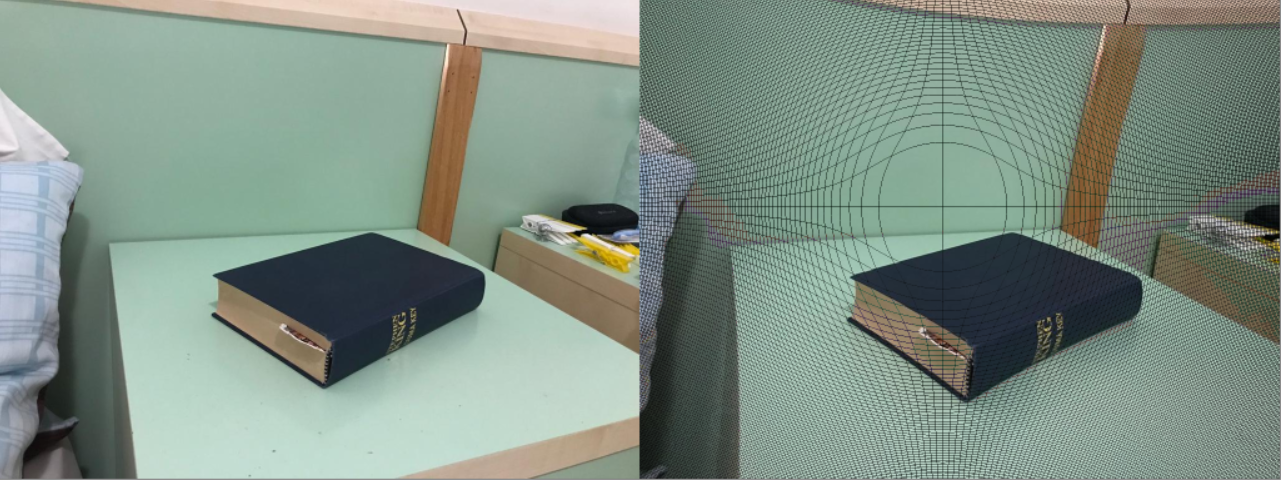
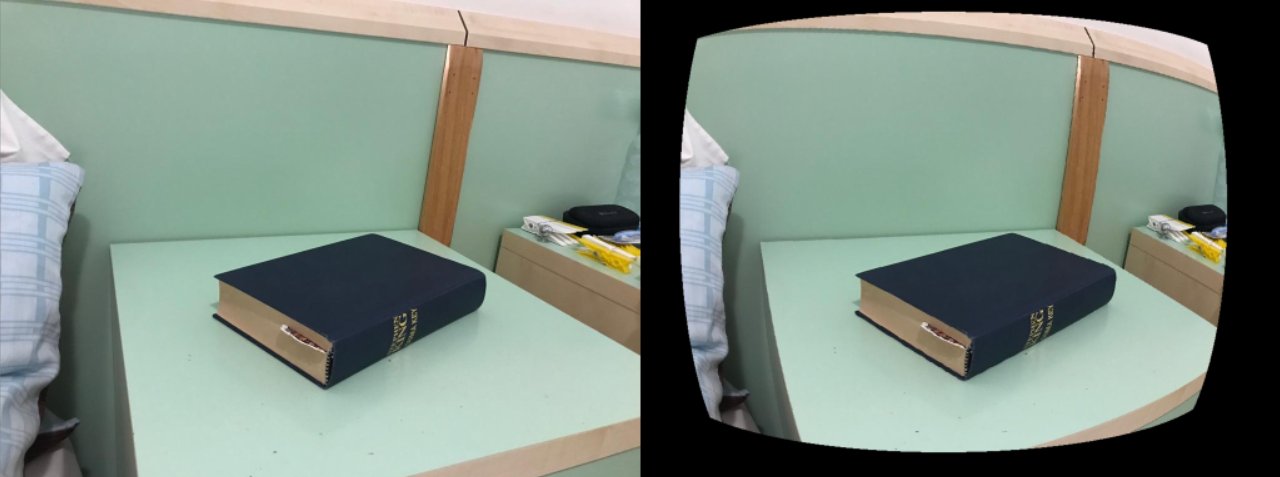
Fixed README errors, implemented inverse transformation for radial distortion

diff --git a/radial_distortion/radial_distortion.py b/radial_distortion/radial_distortion.py
@@ -28,7 +28,7 @@ def collect_calibration_points(event, x, y, flags, points):
         print((x, y))
         points.append((x, y))
 
-def transformation_distortion(img_old, K, distortion_coefficient= -0.4):
+def transformation_distortion_direct(img_old, K, distortion_coefficient= -0.4):
     img_new = np.zeros_like(img_old)
     coordinates_x, coordinates_y = np.meshgrid(np.arange(1, img_old.shape[1]), np.arange(1, img_old.shape[0]))
 
@@ -49,20 +49,34 @@ def transformation_distortion(img_old, K, distortion_coefficient= -0.4):
 
     img_new[new_coordinates_y, new_coordinates_x] = img_old[1:,1:,:]
     
-
-
     return img_new
 
-def interpolate(img):
-    img_new = np.copy(img)
+def transformation_distortion_inverse(img_old, K, distortion_coefficient= -0.4):
+    img_new = np.zeros_like(img_old)
+    coordinates_x, coordinates_y = np.meshgrid(np.arange(1, img_old.shape[1]), np.arange(1, img_old.shape[0]))
 
-    for i in np.arange(1, img.shape[0]-1):
-        mask = np.logical_and(np.logical_and(img[i,:,0]==0, img[i,:,1]==0), img[i,:,2]==0)
-        img_new[i,mask] = img_new[i,mask]+((img[i-1,mask] + img[i+1,mask])/4).astype(np.uint8)
-    
-    for i in np.arange(1, img.shape[1]-1):
-        mask = np.logical_and(np.logical_and(img[:,i,0]==0, img[:,i,1]==0), img[:,i,2]==0)
-        img_new[mask,i] = img_new[mask,i]+((img[mask,i-1] + img[mask,i+1])/4).astype(np.uint8)
+    C = K[:,-1]
+    K = K / C[-1]
+    C = C / C[-1]
+
+
+    alpha_u = K[0,0]
+    axis_angle = np.arccos(K[0,1]/alpha_u)
+    alpha_v = K[1,1]*np.sin(axis_angle)
+
+    RD_squared = np.power((coordinates_x-C[0]) / (alpha_u), 2) \
+            + np.power((coordinates_y-C[1]) / (alpha_v), 2)
+
+    old_coordinates_x = (coordinates_x-C[0])/(1+distortion_coefficient*RD_squared)+C[0]
+    old_coordinates_y = (coordinates_y-C[1])/(1+distortion_coefficient*RD_squared)+C[1]
+
+    coordinate_mask = np.logical_and(np.logical_and(old_coordinates_x < img_new.shape[1], old_coordinates_x >= 0), \
+                np.logical_and(old_coordinates_y < img_new.shape[0], old_coordinates_y >= 0))
+
+    old_coordinates_x = np.clip(old_coordinates_x, 0, img_new.shape[1]-1).astype(int)
+    old_coordinates_y = np.clip(old_coordinates_y, 0, img_new.shape[0]-1).astype(int)
+
+    img_new[1:,1:,:] += img_old[old_coordinates_y, old_coordinates_x, :]*coordinate_mask[:,:,np.newaxis]
 
     return img_new
 
@@ -95,23 +109,23 @@ def estimate_distortion_coefficient(img, K, P):
     return ((m[0]-C[0])*RD_squared*(points[0][0]-m[0])/(m[0]-C[0])*RD_squared*(m[0]-C[0])*RD_squared)
     
 
-
-
 img_undistorted = cv2.imread('../images/scene1.jpg')
 
 P, K, R, t = helper.read_projection_matrix_from_file("../images/data/params1")
 
-# perform distortion and interpolation
-img_distorted = transformation_distortion(img_undistorted, K)
-img_distorted_interpolated = interpolate(img_distorted)
+# perform distortion transformation
+#img_distorted = transformation_distortion_direct(img_undistorted, K, -0.4)
+#img_distorted = transformation_distortion_direct(img_undistorted, K, 0.7)
+img_distorted = transformation_distortion_inverse(img_undistorted, K, 0.7)
 
 # resize and show images
 img_undistorted_resize = cv2.resize(img_undistorted, (int(img_undistorted.shape[1]/2), int(img_undistorted.shape[0]/2)))
-img_distorted_interpolated_resize = cv2.resize(img_distorted_interpolated, (int(img_distorted_interpolated.shape[1]/2), int(img_distorted_interpolated.shape[0]/2)))
-img_combined = np.concatenate([img_undistorted_resize, img_distorted_interpolated_resize], axis=1)
+img_distorted_resize = cv2.resize(img_distorted, (int(img_distorted.shape[1]/2), int(img_distorted.shape[0]/2)))
+img_combined = np.concatenate([img_undistorted_resize, img_distorted_resize], axis=1)
 
-print("K estimation: " + str(estimate_distortion_coefficient(img_distorted, K, P)))
+# Not a correct estimation as the projection matrix is not the one of the distorted image!
+# print("K estimation: " + str(estimate_distortion_coefficient(img_distorted, K, P)))
 
-cv2.imshow("images_distorted", img_combined)
+cv2.imshow("image_original_and_distorted", img_combined)
 cv2.waitKey(0)
 cv2.destroyAllWindows()

diff --git a/radial_distortion/README.md b/radial_distortion/README.md
@@ -5,10 +5,16 @@ The distortion is generated by a radial distortion model using a single paramete
 For parameter values K1 smaller than 0, the model creates pincushion distortion,
 while for parameter values K1 greater than 0 it creates barrel distortion.
 
-## Example 1 Pincushion Distortion, K1 = -0.4
-
-![image_pincushion_distortion](../images/radial_distortion_pincushion_README.PNG)
-
-## Example 2 Barrel Distortion, K1 = 0.7
+## Example 1 Barrel Distortion, K1 = -0.4
 
 ![image_barrel_distortion](../images/radial_distortion_barrel_README.PNG)
+
+## Example 2 Pincushion Distortion, K1 = 0.7
+
+![image_pincushion_distortion](../images/radial_distortion_pincushion1_README.PNG)
+
+## Example 3 Pincushion Distortion, K1 = 0.7 (inverse transfor)
+
+![image_pincushion_distortion](../images/radial_distortion_pincushion1_README.PNG)
+
+The inverse transform results in an image without missing pixels (pixels that were not assigned a value after the transformation). There is no need for further interpolation.

diff --git a/triangulation_and_epipolar_geometry/README.md b/triangulation_and_epipolar_geometry/README.md
@@ -10,5 +10,5 @@
 
 1. The file triangulation.py contains the function to estimate the coordinates of a point in the 3D scene given the coordinates of the corresponding projections and the projection matrices of the scenes. It also includes a short demo in which the distance of two points indicated by the user is estimated.
 
-2. Running epipolar_geometry.py the user can specify points on the left image in a first step. These points are then drawn onto the image on the right.
+2. Running epipolar_geometry.py the user can specify points on the left image in a first step. The corresponding epipolar lines are then drawn onto the image on the right.
 ![epipolar_line](https://github.com/kroppel/computer-vision-lab/blob/main/images/epipolar_line_README.PNG)

diff --git a/README.md b/README.md
@@ -12,4 +12,4 @@ course 'Computer Vision', University of Verona, 2022.
 
 ## Note
 
-Scripts should be run from inside each topics directory, as they contain relative paths to images and other data data. 
+Scripts should be run from inside each topics directory, as they contain relative paths to images and other data. 
